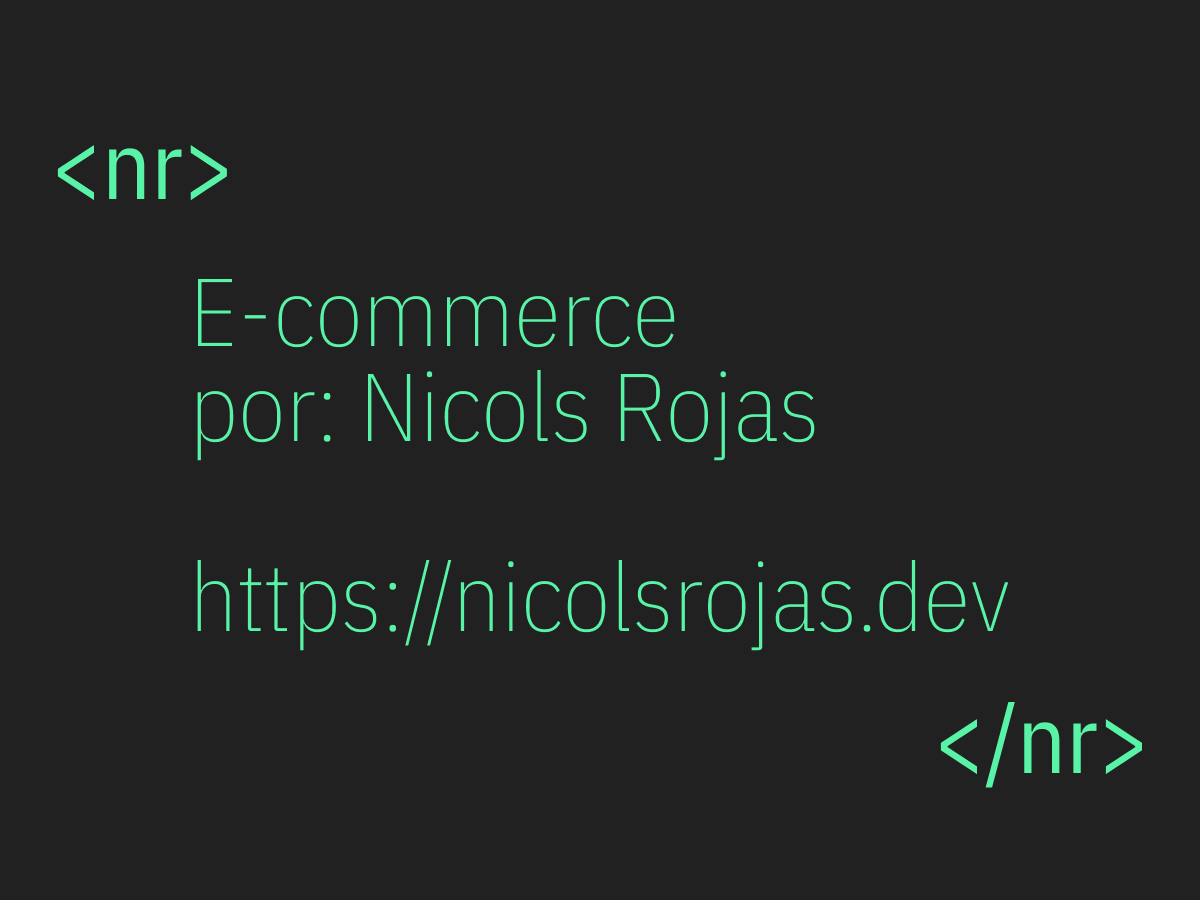
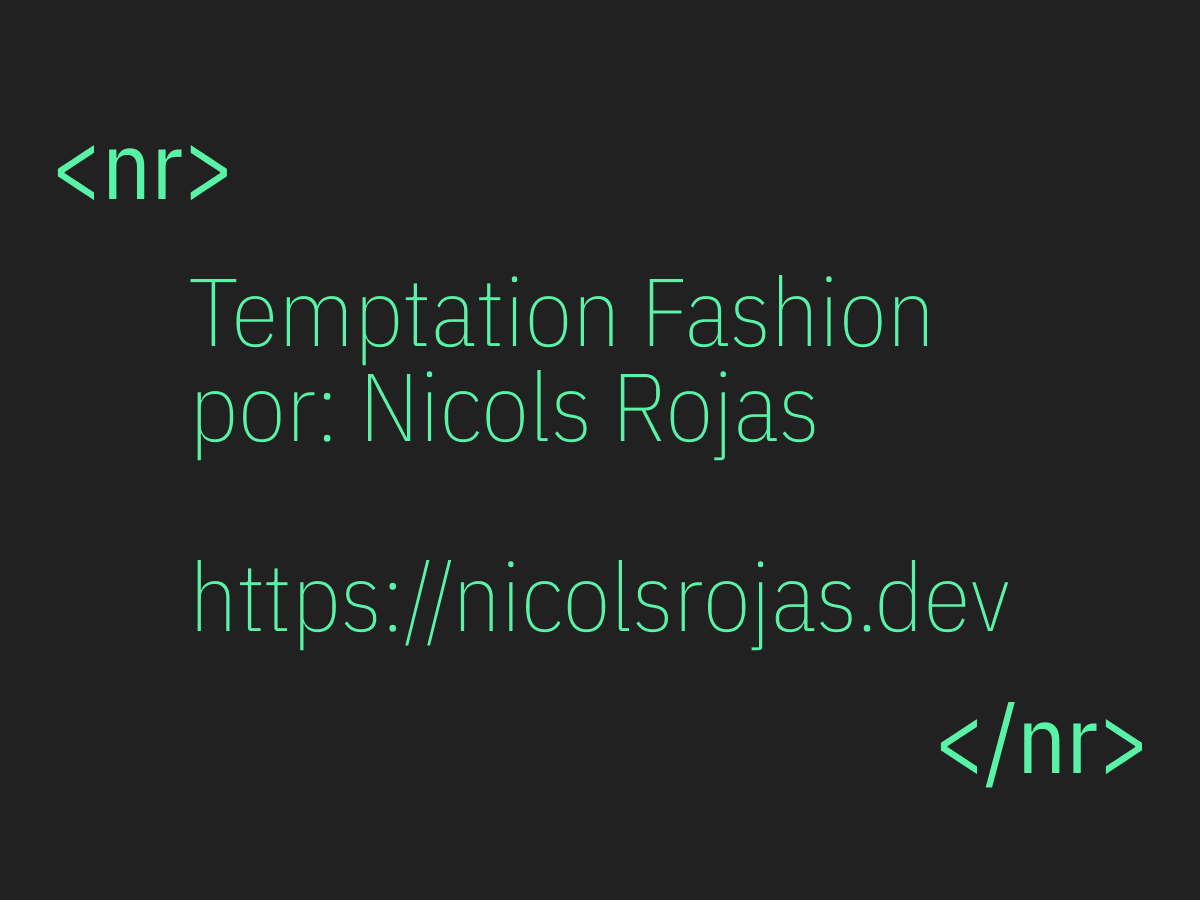
first commit

Changed region(s): [[0.1542, 0.3111, 0.7708, 0.4044]]

diff --git a/style.css b/style.css
@@ -1,7 +1,7 @@
 /*!
-Theme Name: Ecommerce Base Theme
-Description: Private base theme for client projects
-Text Domain: ecommerce
+Theme Name: Temptation Fashion Theme
+Description: Temptation Fashion Theme is a modern and responsive WordPress theme designed for e-commerce websites. It features a clean and minimalist design, making it perfect for showcasing products in an elegant way. The theme is built with the latest web technologies, ensuring optimal performance and compatibility across all devices and browsers.
+Text Domain: temptation-fashion
 Version: 1.0.0
 Author: Nicols Rojas
 Author URI: https://nicolsrojas.dev
@@ -260,6 +260,7 @@ svg { display: block;}
 	z-index: 100000;
 }
 
+/* Global */
 @font-face {
     font-family: 'Lato';
     src: url('assets/fonts/subset-Lato-Regular.woff2') format('woff2'),
@@ -303,6 +304,9 @@ body {
     line-height: 1.5;
     color: #000;
 }
+button{
+  padding: 0;
+}
 
 /* helpers */
 .flex {
@@ -330,7 +334,7 @@ body {
     min-height: 100svh;
     overflow: hidden;
 }
-.site-main {
+.site-main, .page-container{
     flex: 1;
 }
 @media (max-width: 48rem) {

diff --git a/inc/woocommerce.php b/inc/woocommerce.php
@@ -1,6 +1,4 @@
 <?php
-/* WooCommerce Compatibility File */
-
 function ecommerce_woocommerce_setup() {
 	add_theme_support(
 		'woocommerce',
@@ -42,8 +40,6 @@ function ecommerce_woocommerce_related_products_args( $args ) {
 }
 add_filter( 'woocommerce_output_related_products_args', 'ecommerce_woocommerce_related_products_args' );
 
-
-// Remove default sidebar action
 remove_action('woocommerce_sidebar', 'woocommerce_get_sidebar', 10);
 remove_action( 'woocommerce_before_main_content', 'woocommerce_output_content_wrapper', 10 );
 remove_action( 'woocommerce_after_main_content', 'woocommerce_output_content_wrapper_end', 10 );
@@ -66,18 +62,18 @@ if ( ! function_exists( 'ecommerce_woocommerce_wrapper_after' ) ) {
 }
 add_action( 'woocommerce_after_main_content', 'ecommerce_woocommerce_wrapper_after' );
 
-function custom_wrap_content_sidebar() {
-    echo '<div class="container flex">';
+function custom_wrap() {
+    echo '<div class="page-container container flex">';
 }
+add_action('woocommerce_before_main_content', 'custom_wrap', 5);
 
-function custom_close_content_sidebar() {
-	woocommerce_get_sidebar();
+function custom_close() {
+	if ( is_shop() || is_product_category() || is_product_tag() || is_product_taxonomy()){
+		woocommerce_get_sidebar();
+	}
     echo '</div>';
 }
-
-// Hook the wrapper functions
-add_action('woocommerce_before_main_content', 'custom_wrap_content_sidebar', 5);
-add_action('woocommerce_after_main_content', 'custom_close_content_sidebar', 25);
+add_action('woocommerce_after_main_content', 'custom_close', 25);
 
 if ( ! function_exists( 'ecommerce_woocommerce_cart_link_fragment' ) ) {
 

diff --git a/sidebar-shop.php b/sidebar-shop.php
@@ -1,0 +1,17 @@
+<aside id="secondary">
+    <div>
+        <h3>Search Products</h3>
+        <form role="search" method="get" action="<?php echo esc_url(home_url( '/' )); ?>">
+            <div>
+                <input type="search" 
+                       name="s" 
+                       placeholder="Search products..." 
+                       value="<?php echo get_search_query(); ?>" 
+                       class="search-input">
+                <input type="hidden" name="post_type" value="product">
+                <button type="submit" class="search-button">Search</button>
+            </div>
+        </form>
+    </div>
+
+</aside>

diff --git a/inc/shortcodes.php b/inc/shortcodes.php
@@ -21,12 +21,12 @@ function gsap_carousel_shortcode($atts) {
                 <?php endfor; ?>
             </div>
         </div>
-        <div class="navigation button-prev">
+        <button class="navigation button-prev">
             <?php echo load_inline_svg('arrow-left') ?>
-        </div>
-        <div class="navigation button-next">
+        </button>
+        <button class="navigation button-next">
             <?php echo load_inline_svg('arrow-right') ?>
-        </div>
+        </button>
     </div>
     <?php
     return ob_get_clean();
